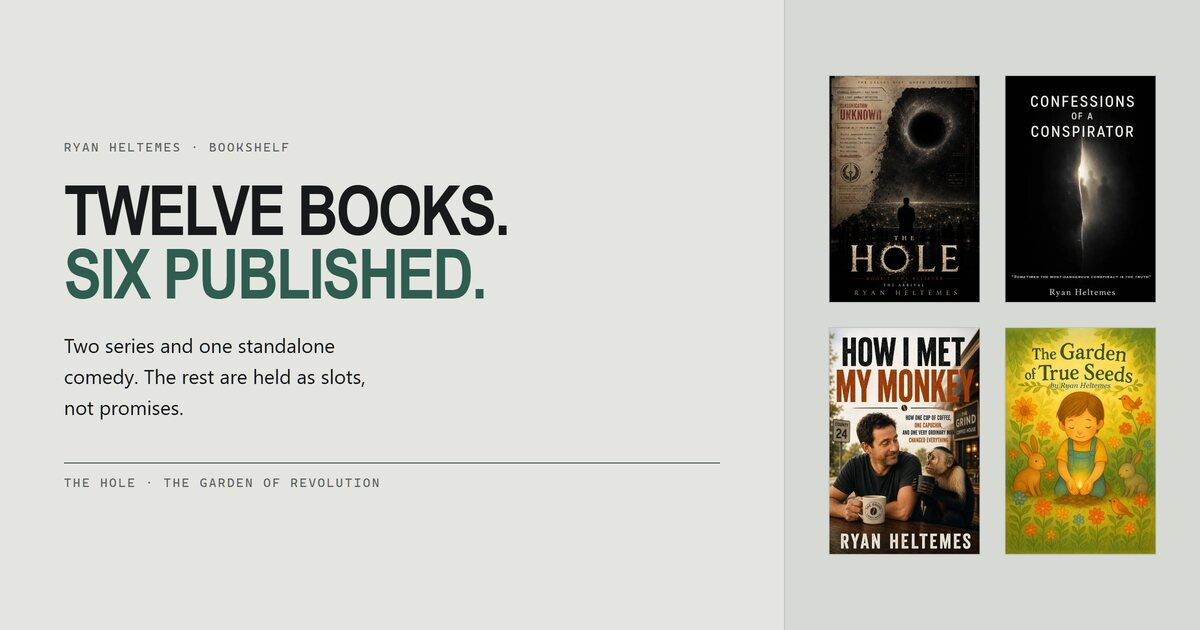
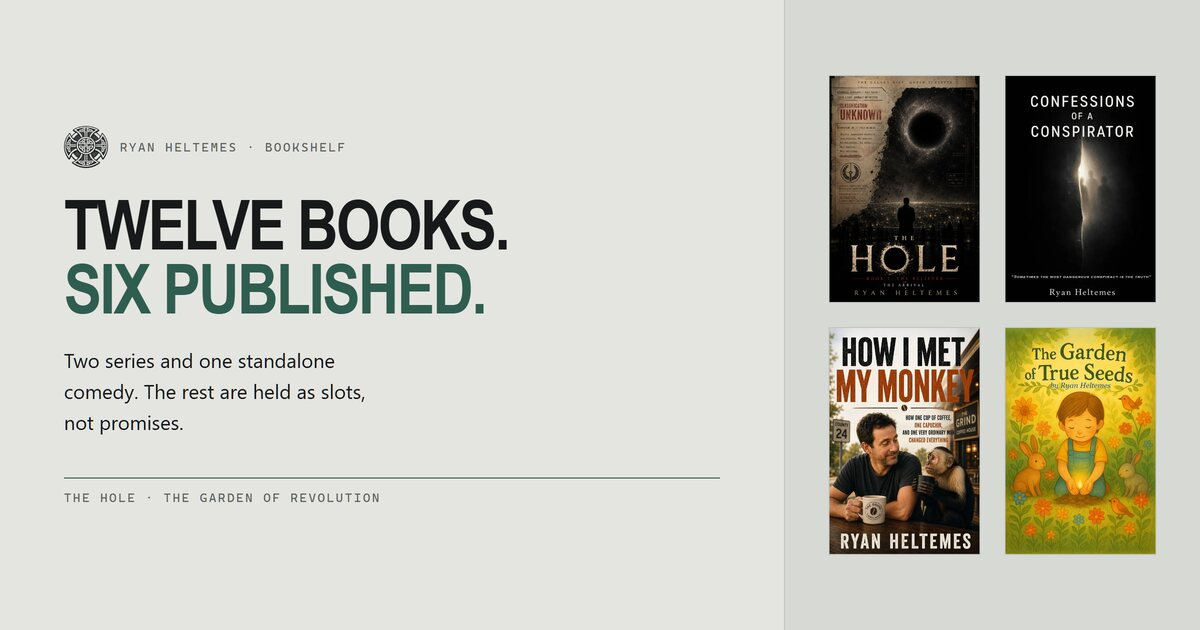
His belt buckle becomes the mark; the headline says what he actually says
The buckle only existed as a favicon, at 16-48px, which is exactly the size
where its relief detail collapses. It is now a mark: the flat line version of
the same buckle reduced to one ink colour, with the knotwork KNOCKED OUT so the
zinc ground shows through it. It reads as a struck seal rather than a
photograph pasted onto a flat page.

Masthead only, 44px, on all five pages. Not the hero: the buckle is already
there, on his belt, photographed — a drawing of it beside the real thing
competes and the photograph wins. Not a link either, since every inner page
already carries a back-link beside it.

The mark travels inside a .brand wrapper because the masthead is
space-between; as a bare third child it gets flung to the middle of the bar.

Headline is now "I build cool sh!t." on the page, the title, the share text and
the card. --step-display drops 9rem -> 6.5rem: "I BUILD COOL" does not fit
beside the portrait above ~7rem, which is precisely what the note in tokens.css
warned would happen if the headline ever got longer again.

All five share cards re-rendered with the mark. The home card finally has a
generator (og-home.html) instead of being a sourceless hand-made JPEG — the
headline change forced the rebuild, which is the exact cost of not keeping a
source, and it is kept now.

Verified at 1440/900 directly and at 390/430 through a sized-iframe harness,
because headless Chrome clamps small window widths and fakes an overflow that
[…]

Changed region(s): [[0.0308, 0.181, 0.4317, 0.5127], [0.0617, 0.7238, 0.5858, 0.8143], [0.0617, 0.5429, 0.3083, 0.6937]]

diff --git a/index.html b/index.html
@@ -3,22 +3,22 @@
 <head>
 <meta charset="utf-8">
 <meta name="viewport" content="width=device-width, initial-scale=1">
-<title>Ryan Heltemes — I build sh!t.</title>
+<title>Ryan Heltemes — I build cool sh!t.</title>
 <meta name="description" content="One person in Montana building software, sheet steel, chemistry, herbs and prose. An AI council, a stove company, a glow-in-the-dark trail marker, six published books and a research series.">
 
-<meta property="og:title" content="Ryan Heltemes — I build sh!t.">
+<meta property="og:title" content="Ryan Heltemes — I build cool sh!t.">
 <meta property="og:description" content="One person, Montana. An AI council, a stove company, a glow-in-the-dark trail marker, six published books and a research series. Software, sheet steel, chemistry, herbs and prose.">
 <meta property="og:type" content="website">
 <meta property="og:url" content="https://ryan-heltemes.com/">
-<meta property="og:image" content="https://ryan-heltemes.com/assets/og/og-card.jpg?1">
+<meta property="og:image" content="https://ryan-heltemes.com/assets/og/og-card.jpg?2">
 <meta property="og:image:width" content="1200">
 <meta property="og:image:height" content="630">
-<meta property="og:image:alt" content="Ryan Heltemes against a Montana sunset — I build sh!t. Software, steel, chemistry, botany, prose, research.">
+<meta property="og:image:alt" content="Ryan Heltemes against a Montana sunset — I build cool sh!t. Software, steel, chemistry, botany, prose, research.">
 <meta property="og:site_name" content="Ryan Heltemes">
 <meta name="twitter:card" content="summary_large_image">
-<meta name="twitter:title" content="Ryan Heltemes — I build sh!t.">
+<meta name="twitter:title" content="Ryan Heltemes — I build cool sh!t.">
 <meta name="twitter:description" content="One person, Montana. An AI council, a stove company, a glow-in-the-dark trail marker, six published books and a research series.">
-<meta name="twitter:image" content="https://ryan-heltemes.com/assets/og/og-card.jpg?1">
+<meta name="twitter:image" content="https://ryan-heltemes.com/assets/og/og-card.jpg?2">
 
 <!-- His own Celtic-cross belt buckle — the one he is wearing in the portrait below.
      favicon.ico carries 16/32/48. The 16 is a separate, contrast-boosted render:
@@ -34,7 +34,10 @@
 <body>
 
 <header class="masthead wrap">
-  <span class="util">Ryan Heltemes</span>
+  <span class="brand">
+    <span class="brandmark"></span>
+    <span class="util">Ryan Heltemes</span>
+  </span>
   <nav class="topnav util">
     <a class="go" href="#software">Software</a>
     <a class="go" href="#gear">Gear</a>
@@ -50,7 +53,7 @@
   <section class="hero wrap">
    <div class="hero-text">
     <h1 class="hero-line rise">
-      I build<br>
+      I build cool<br>
       <em>sh!t.</em>
     </h1>
 

diff --git a/style.css b/style.css
@@ -48,9 +48,29 @@ a { color: inherit; }
   flex-wrap: wrap;
   gap: var(--space-2);
   justify-content: space-between;
-  align-items: baseline;
+  align-items: center;
   padding-block: var(--space-3);
   border-bottom: var(--rule) solid var(--ground-edge);
+}
+
+/* The mark travels WITH the name as one unit. The masthead is space-between,
+   so a bare third child gets flung to the middle of the bar. */
+.brand {
+  display: flex;
+  align-items: center;
+  gap: var(--space-2);
+}
+
+/* His belt buckle as a single ink stamp — _source-assets/brand/README.md.
+   Masthead only: the hero already shows the real buckle, and a drawing competes. */
+.brandmark {
+  width: 2.75rem;
+  height: 2.75rem;
+  flex: none;
+  background-image: url('assets/icons/brandmark.png');
+  background-size: contain;
+  background-repeat: no-repeat;
+  background-position: center;
 }
 
 /* --- Hero ----------------------------------------------------------------
@@ -233,16 +253,11 @@ a { color: inherit; }
 .rise-3 { animation-delay: 180ms; }
 .rise-4 { animation-delay: 300ms; }
 
-/* ⚠ THIS ANIMATES TRANSFORM ONLY — DO NOT ADD `opacity: 0` BACK.
-   It used to fade in from zero, which meant that for the first ~900ms (620ms
-   duration plus up to 300ms of delay) the hero headline and the portrait were
-   INVISIBLE, not just un-animated — `animation-fill-mode: both` back-fills the
-   from-state before the animation starts. Anything that photographs the page at
-   load caught a blank grey slab: browser bookmark and speed-dial thumbnails did
-   exactly that, and a page opened in a BACKGROUND TAB is worse, because the
-   animation is throttled and the hero can stay invisible until the tab is
-   focused. Sliding without fading keeps the deliberate moment and can never
-   render the page as empty. */
+/* ⚠ TRANSFORM ONLY — DO NOT ADD `opacity: 0` BACK. `animation-fill-mode: both`
+   back-fills the from-state, so fading from zero left the hero INVISIBLE for
+   ~900ms after load. Thumbnail grabbers photograph exactly then and caught a
+   blank grey slab; a background tab throttles the animation, so it can stay
+   blank until focused. Sliding without fading can never render an empty page. */
 @keyframes rise {
   from { transform: translateY(var(--space-3)); }
   to   { transform: none; }

diff --git a/garden-of-revolution.html b/garden-of-revolution.html
@@ -10,7 +10,7 @@
 <meta property="og:description" content="Not sequels but living phases of one transmission: from diagnosis to construction, and what a person can build that cannot be turned against them.">
 <meta property="og:type" content="website">
 <meta property="og:url" content="https://ryan-heltemes.com/garden-of-revolution.html">
-<meta property="og:image" content="https://ryan-heltemes.com/assets/og/og-garden-of-revolution.jpg?1">
+<meta property="og:image" content="https://ryan-heltemes.com/assets/og/og-garden-of-revolution.jpg?2">
 <meta property="og:image:width" content="1200">
 <meta property="og:image:height" content="630">
 <meta property="og:image:alt" content="The Garden of Revolution — covers from the seven-book cycle.">
@@ -18,7 +18,7 @@
 <meta name="twitter:card" content="summary_large_image">
 <meta name="twitter:title" content="The Garden of Revolution — a seven-book cycle">
 <meta name="twitter:description" content="Not sequels but living phases of one transmission: from diagnosis to construction.">
-<meta name="twitter:image" content="https://ryan-heltemes.com/assets/og/og-garden-of-revolution.jpg?1">
+<meta name="twitter:image" content="https://ryan-heltemes.com/assets/og/og-garden-of-revolution.jpg?2">
 
 <link rel="icon" href="favicon.ico" sizes="16x16 32x32 48x48">
 <link rel="icon" type="image/png" sizes="32x32" href="assets/icons/favicon-32.png">
@@ -31,7 +31,10 @@
 <body>
 
 <header class="masthead wrap">
-  <span class="util">Ryan Heltemes</span>
+  <span class="brand">
+    <span class="brandmark"></span>
+    <span class="util">Ryan Heltemes</span>
+  </span>
   <a class="go" href="bookshelf.html">← Bookshelf</a>
 </header>
 

diff --git a/aletheia-papers.html b/aletheia-papers.html
@@ -10,7 +10,7 @@
 <meta property="og:description" content="Research into how symbolically dense language shapes a model&#39;s interpretive posture before it reasons. 44 documents, free, direct download.">
 <meta property="og:type" content="website">
 <meta property="og:url" content="https://ryan-heltemes.com/aletheia-papers.html">
-<meta property="og:image" content="https://ryan-heltemes.com/assets/og/og-aletheia-papers.jpg?2">
+<meta property="og:image" content="https://ryan-heltemes.com/assets/og/og-aletheia-papers.jpg?3">
 <meta property="og:image:width" content="1200">
 <meta property="og:image:height" content="630">
 <meta property="og:image:alt" content="The Aletheia Papers — a research series on interpretive governance in large language models.">
@@ -18,7 +18,7 @@
 <meta name="twitter:card" content="summary_large_image">
 <meta name="twitter:title" content="The Aletheia Papers">
 <meta name="twitter:description" content="44 documents on interpretive governance in large language models. Free, no signup, direct download.">
-<meta name="twitter:image" content="https://ryan-heltemes.com/assets/og/og-aletheia-papers.jpg?2">
+<meta name="twitter:image" content="https://ryan-heltemes.com/assets/og/og-aletheia-papers.jpg?3">
 
 <link rel="icon" href="favicon.ico" sizes="16x16 32x32 48x48">
 <link rel="icon" type="image/png" sizes="32x32" href="assets/icons/favicon-32.png">
@@ -32,7 +32,10 @@
 <body>
 
 <header class="masthead wrap">
-  <span class="util">Ryan Heltemes</span>
+  <span class="brand">
+    <span class="brandmark"></span>
+    <span class="util">Ryan Heltemes</span>
+  </span>
   <a class="go" href="index.html">&larr; Index of works</a>
 </header>
 

diff --git a/the-hole.html b/the-hole.html
@@ -10,7 +10,7 @@
 <meta property="og:description" content="The galaxy dies; greed survives. One catastrophe, four sets of eyes. Complete in four volumes.">
 <meta property="og:type" content="website">
 <meta property="og:url" content="https://ryan-heltemes.com/the-hole.html">
-<meta property="og:image" content="https://ryan-heltemes.com/assets/og/og-the-hole.jpg?1">
+<meta property="og:image" content="https://ryan-heltemes.com/assets/og/og-the-hole.jpg?2">
 <meta property="og:image:width" content="1200">
 <meta property="og:image:height" content="630">
 <meta property="og:image:alt" content="The Hole — four volumes, the four covers side by side.">
@@ -18,7 +18,7 @@
 <meta name="twitter:card" content="summary_large_image">
 <meta name="twitter:title" content="The Hole — a four-book series">
 <meta name="twitter:description" content="The galaxy dies; greed survives. One catastrophe, four sets of eyes. Complete in four volumes.">
-<meta name="twitter:image" content="https://ryan-heltemes.com/assets/og/og-the-hole.jpg?1">
+<meta name="twitter:image" content="https://ryan-heltemes.com/assets/og/og-the-hole.jpg?2">
 
 <link rel="icon" href="favicon.ico" sizes="16x16 32x32 48x48">
 <link rel="icon" type="image/png" sizes="32x32" href="assets/icons/favicon-32.png">
@@ -31,7 +31,10 @@
 <body>
 
 <header class="masthead wrap">
-  <span class="util">Ryan Heltemes</span>
+  <span class="brand">
+    <span class="brandmark"></span>
+    <span class="util">Ryan Heltemes</span>
+  </span>
   <a class="go" href="bookshelf.html">← Bookshelf</a>
 </header>
 

diff --git a/bookshelf.html b/bookshelf.html
@@ -10,7 +10,7 @@
 <meta property="og:description" content="Twelve books across two series and a standalone comedy.">
 <meta property="og:type" content="website">
 <meta property="og:url" content="https://ryan-heltemes.com/bookshelf.html">
-<meta property="og:image" content="https://ryan-heltemes.com/assets/og/og-bookshelf.jpg?1">
+<meta property="og:image" content="https://ryan-heltemes.com/assets/og/og-bookshelf.jpg?2">
 <meta property="og:image:width" content="1200">
 <meta property="og:image:height" content="630">
 <meta property="og:image:alt" content="Twelve books, six published — covers from The Hole, The Garden of Revolution and How I Met My Monkey.">
@@ -18,7 +18,7 @@
 <meta name="twitter:card" content="summary_large_image">
 <meta name="twitter:title" content="Bookshelf — Ryan Heltemes">
 <meta name="twitter:description" content="Twelve books across two series and a standalone comedy.">
-<meta name="twitter:image" content="https://ryan-heltemes.com/assets/og/og-bookshelf.jpg?1">
+<meta name="twitter:image" content="https://ryan-heltemes.com/assets/og/og-bookshelf.jpg?2">
 
 <link rel="icon" href="favicon.ico" sizes="16x16 32x32 48x48">
 <link rel="icon" type="image/png" sizes="32x32" href="assets/icons/favicon-32.png">
@@ -31,7 +31,10 @@
 <body>
 
 <header class="masthead wrap">
-  <span class="util">Ryan Heltemes</span>
+  <span class="brand">
+    <span class="brandmark"></span>
+    <span class="util">Ryan Heltemes</span>
+  </span>
   <a class="go" href="index.html">← Index of works</a>
 </header>
 

diff --git a/tokens.css b/tokens.css
@@ -42,11 +42,13 @@
   --step-1:  1.25rem;
   --step-2:  1.6rem;
   --step-3:  2.4rem;
-  /* Raised to 9rem once the headline became two short words. The earlier 6.5rem
-     cap existed because "I make things out of different materials" ran to five
-     lines beside the portrait; "I build sh!t." does not, so the type can hit
-     harder. Re-check this if the headline ever gets longer again. */
-  --step-display: clamp(2.75rem, 10vw, 9rem);
+  /* Back to 6.5rem — the headline got longer again, exactly as the note here
+     warned it might. "I build sh!t." was two short words and could take 9rem;
+     "I build cool sh!t." cannot, because "I BUILD COOL" has to fit the column
+     beside the portrait and overflows above ~7rem at desktop width. Re-check
+     this AND re-render the home share card if the headline changes again —
+     the card sets its own size and will not follow this token. */
+  --step-display: clamp(2.75rem, 7vw, 6.5rem);
 
   --leading-tight: 0.92;
   --leading-body:  1.55;
